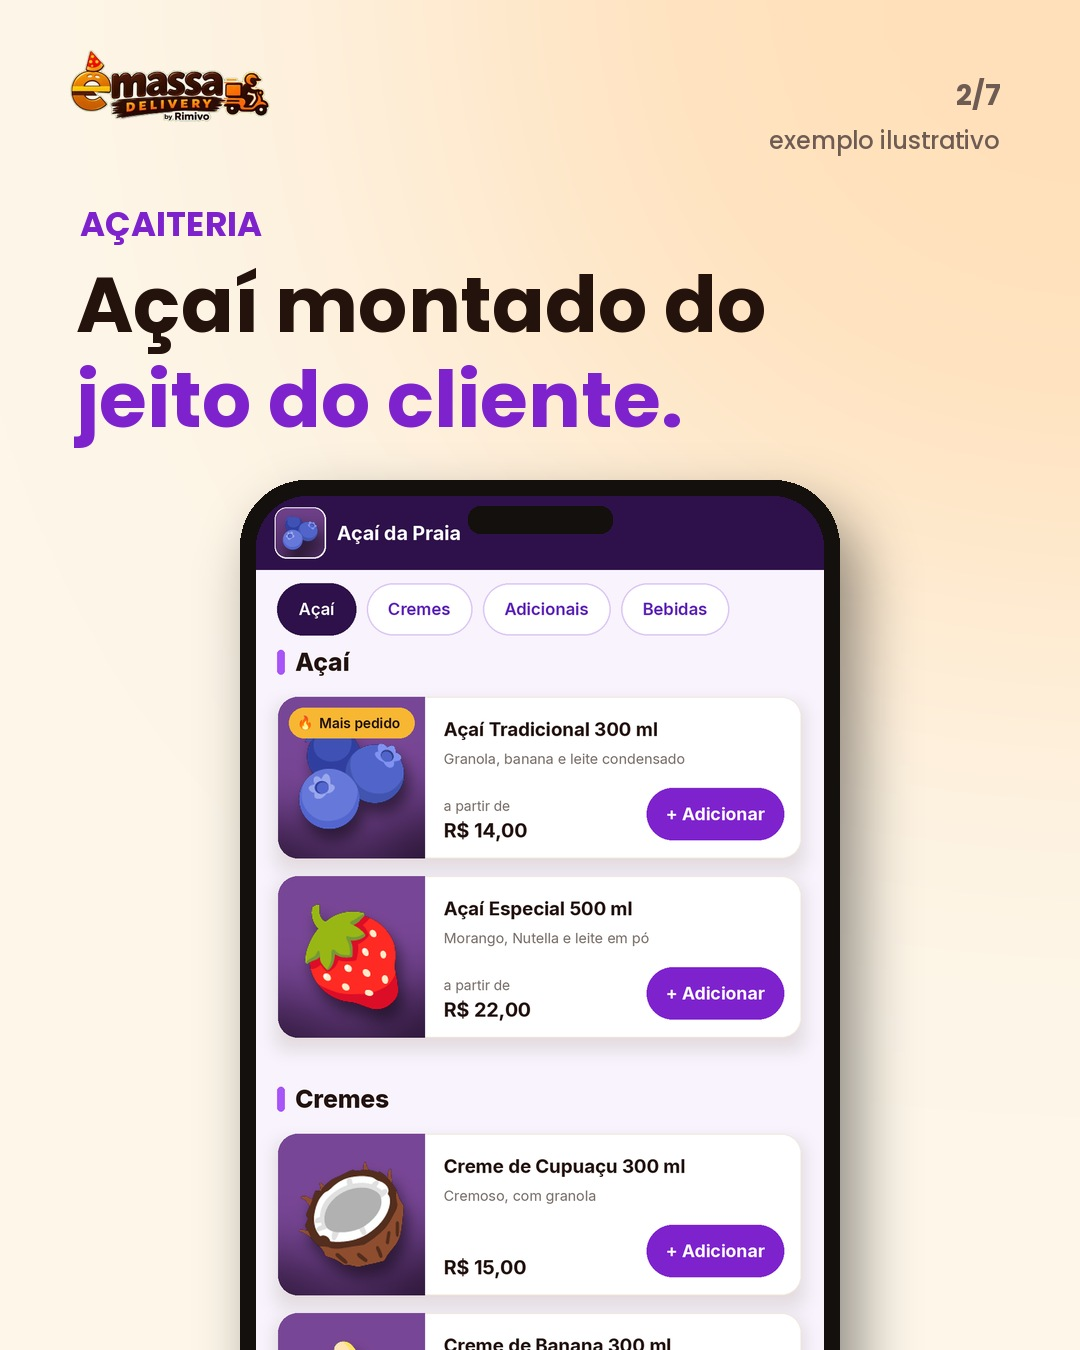
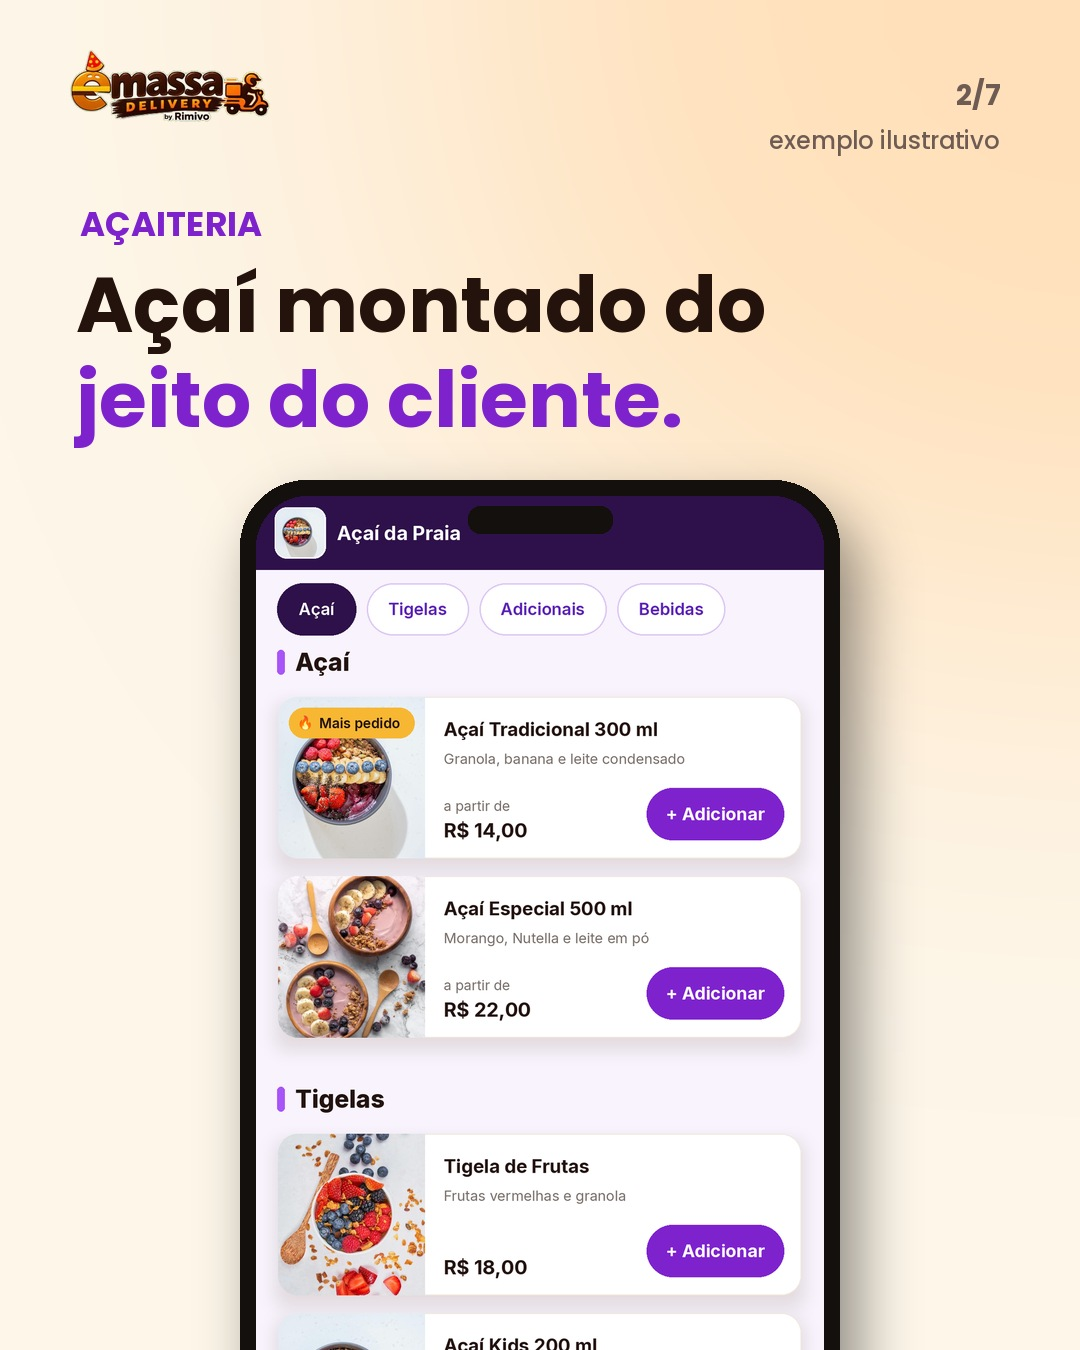
Usa fotos reais (Unsplash) nos cardápios de exemplo de 24/11
Claude-Session: https://claude.ai/code/session_012Y31zp4zVcfP3ysgFW1ZaC

diff --git a/posts/2026-11-24_emassa-carrossel-segmentos/CREDITOS.md b/posts/2026-11-24_emassa-carrossel-segmentos/CREDITOS.md
@@ -1,0 +1,17 @@
+# Créditos das fotos
+
+Fotos de produtos das lojas de exemplo (açaiteria, confeitaria e porções da hamburgueria) tiradas do Unsplash,
+com a Licença Unsplash (uso comercial gratuito, sem necessidade de atribuição): https://unsplash.com/license
+
+- photo-1654923064926-be7e64267a31 (açaí na tigela)
+- photo-1627308594190-a057cd4bfac8 (duas tigelas de açaí)
+- photo-1610441009633-b6ca9c6d4be2 (tigela de frutas com granola)
+- photo-1630060247756-d122e950ac87 (bolo de pote)
+- photo-1606983340126-99ab4feaa64a (bolo de aniversário)
+- photo-1702982852429-e0d0b27eb990 (brigadeiros)
+- photo-1614707267537-b85aaf00c4b7 (cupcake red velvet)
+- photo-1563729784474-d77dbb933a9e (cupcakes)
+- photo-1630384060421-cb20d0e0649d (batata frita)
+- photo-1625938146369-adc83368bda7 (anéis empanados)
+
+Hambúrgueres: fotos do cardápio de demonstração Sabor da Vila (É Massa).
